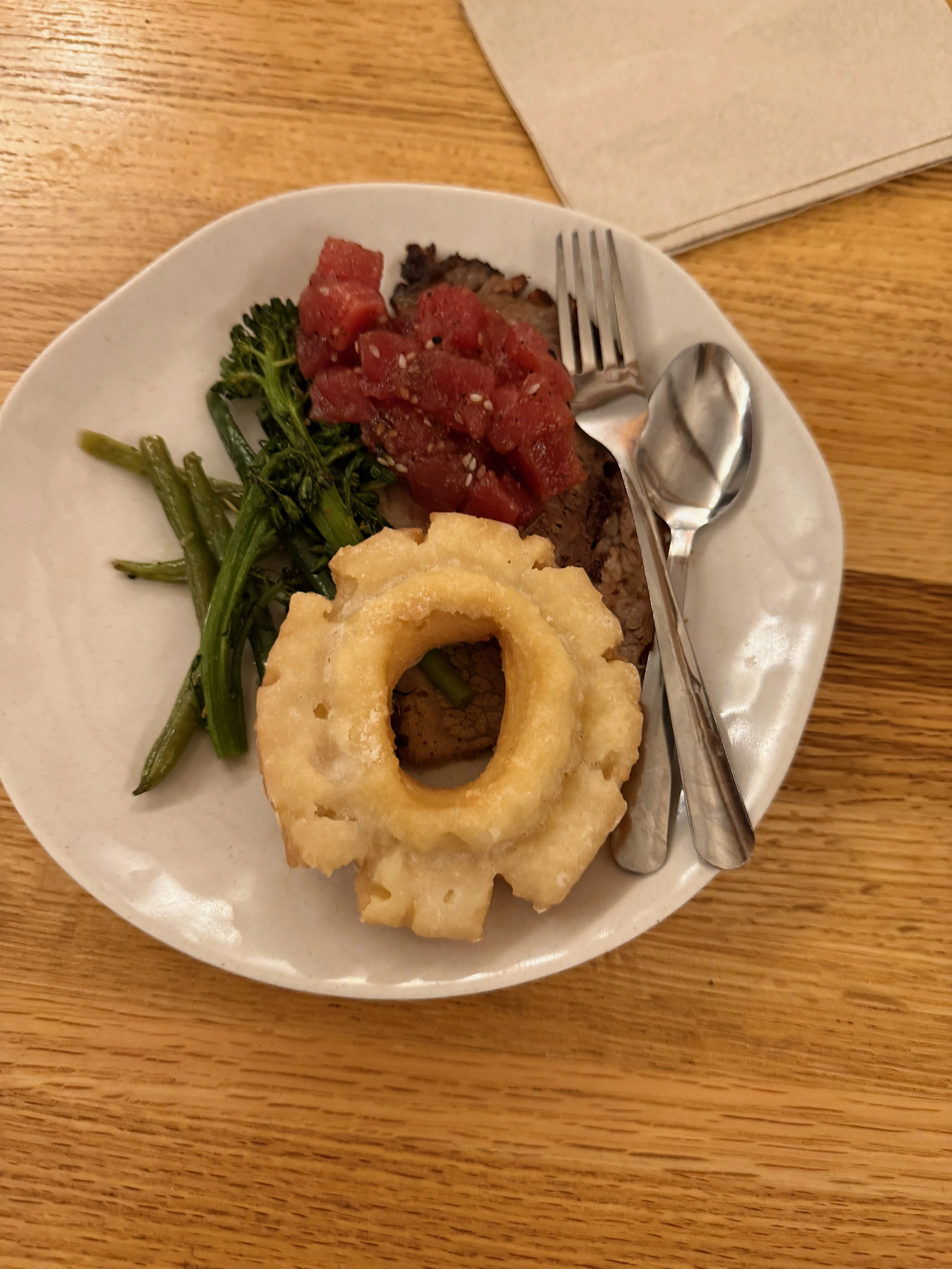
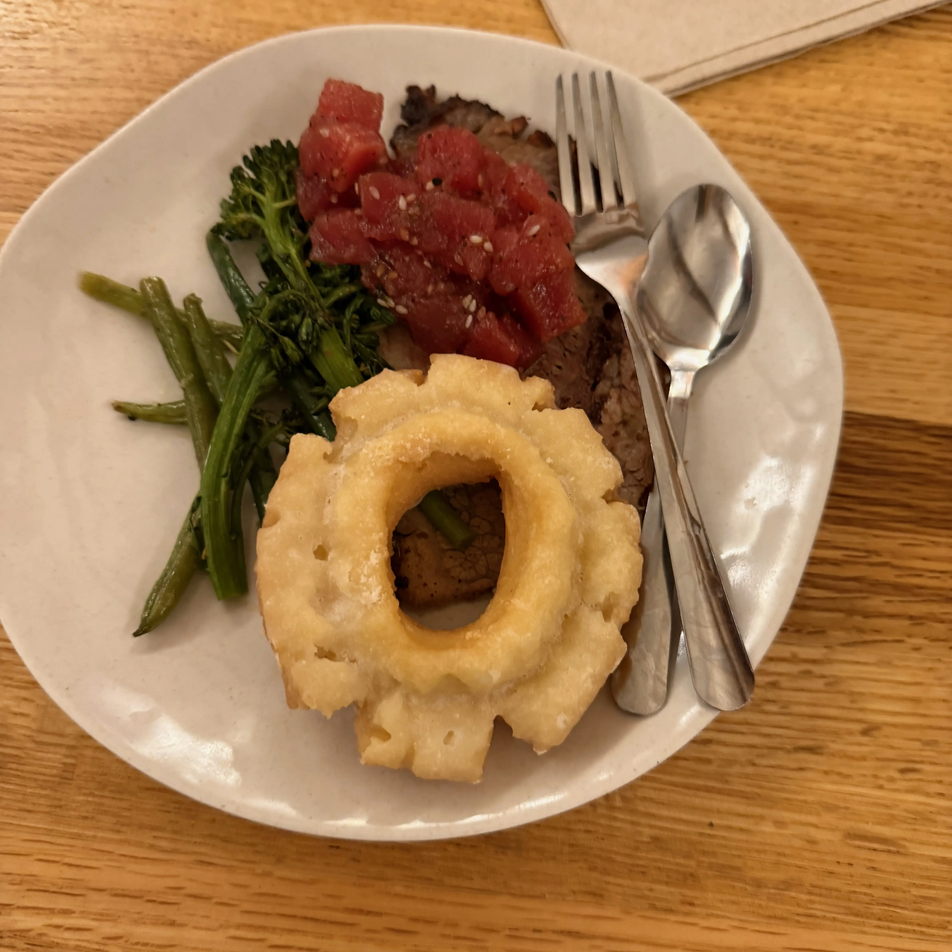
crop

diff --git a/posts/2026-01-31.md b/posts/2026-01-31.md
@@ -9,8 +9,8 @@ Anyway back to George! We were sitting in class running through a Colab notebook
 After class, I visit a friend of mine. He brings me around campus and shows me the Green Library (a large library), inside which there is a section called the West Stacks. The area is temperature controlled and I would guess contains lots of old knowledge. He also brought me to get some food which I thought was not too bad at all! We chilled at another building for a while before I took the bus home.
 
 <figure>
-	<src = "/images/stanford_lunch.webp", alt = "food from dining hall">
-	<figcaption>"Food from the dining hall"></figcaption>
+	<img src = "/images/stanford_lunch.webp" alt = "food from dining hall">
+	<figcaption>Food from the dining hall</figcaption>
 </figure>
 
 I would say my main takeaway from my time here are the following two things.
